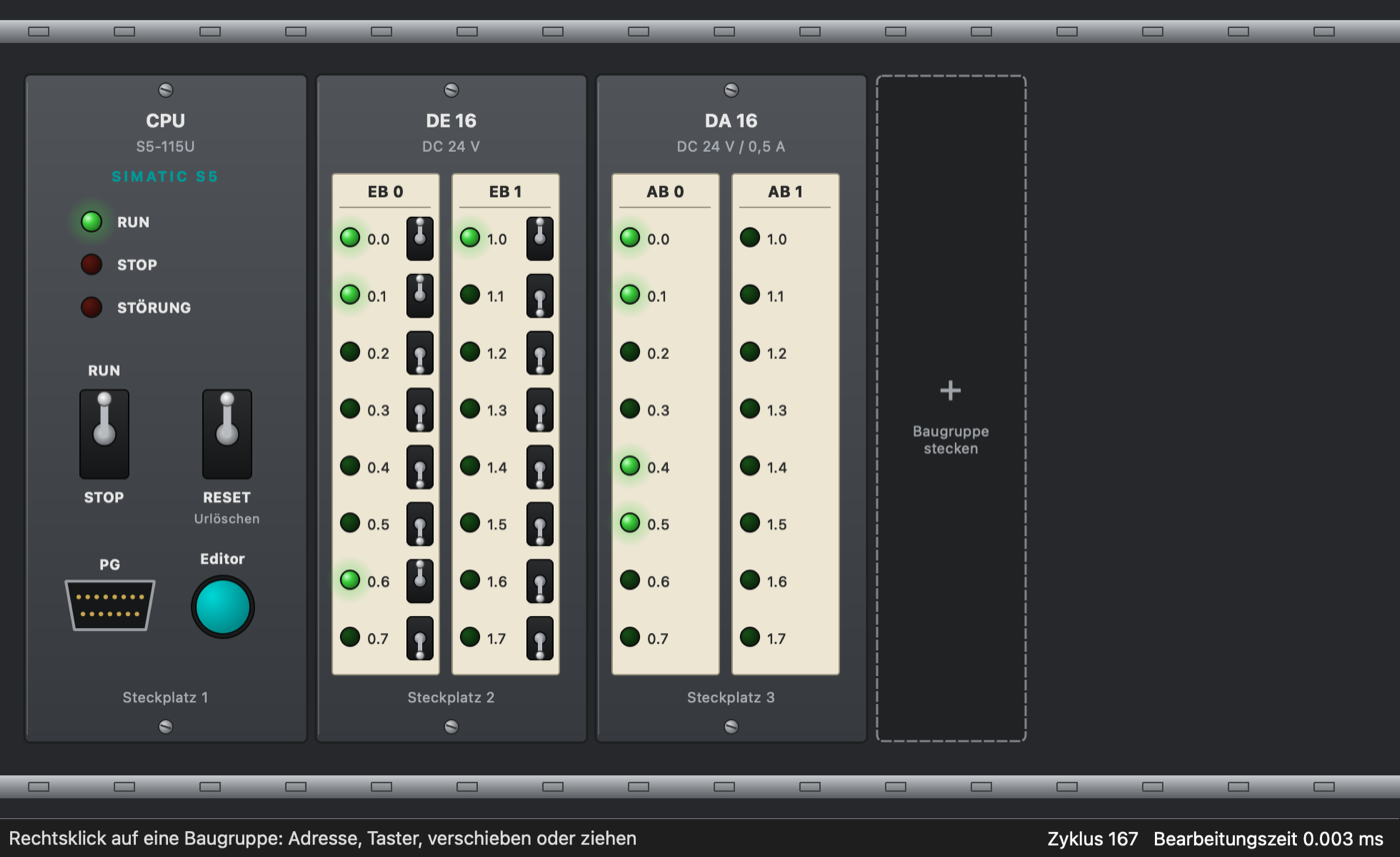
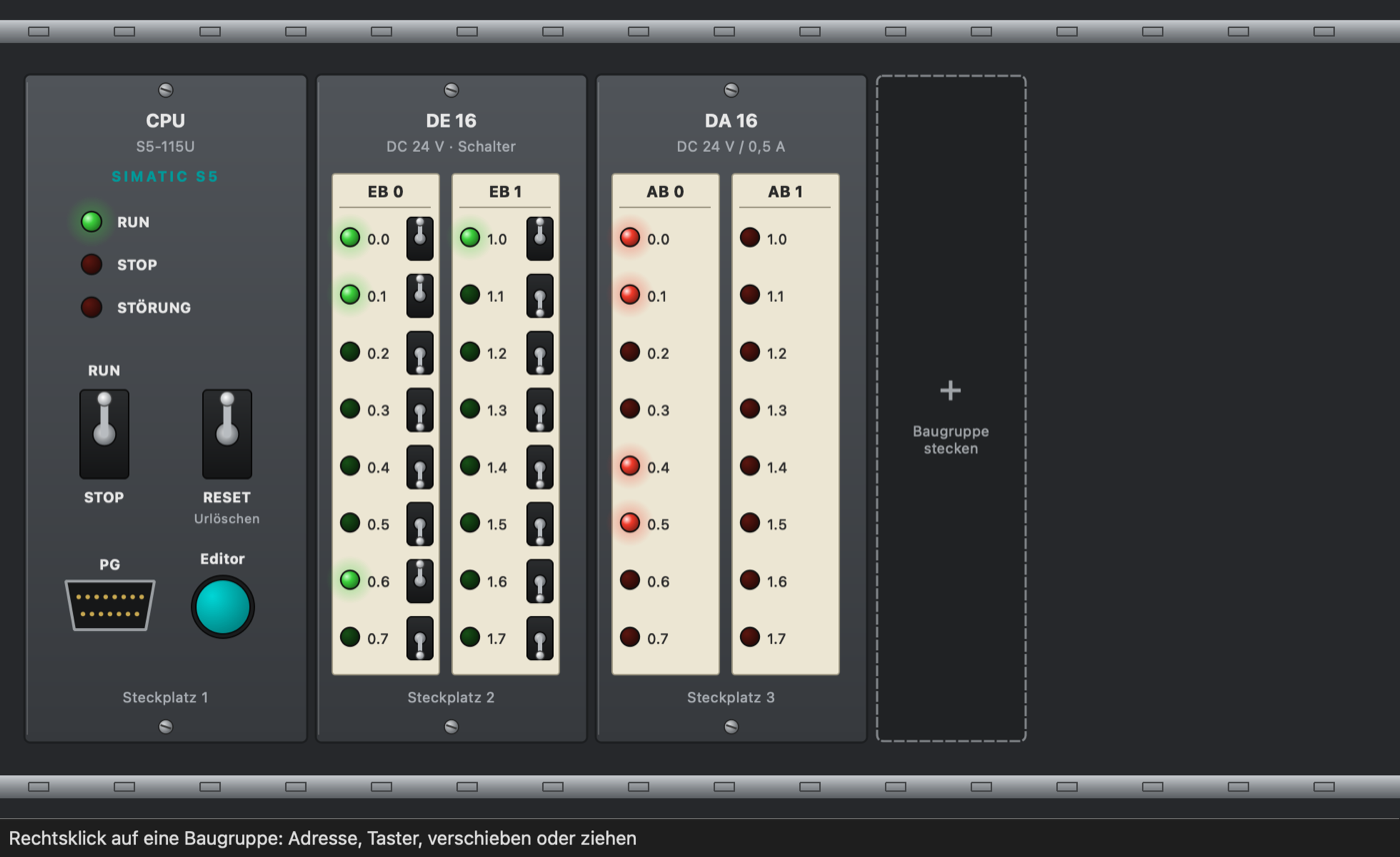
Baugruppen: rote Ausgangs-LEDs, Schalter/Taster je Eingang, Träger ohne Zyklusanzeige
- Digitalausgaben mit roten Status-LEDs, Eingaben weiterhin grün
- Jeder Eingang einzeln als Schalter oder Taster (Kontextmenü am Bit, auch für
  die ganze Karte); Taster mit grauer Kappe, Untertitel und Tooltip zeigen die Art;
  Speicherung je Bit, ältere Einstellungen werden weiter gelesen
- Zyklusnummer und Bearbeitungszeit nur noch im Editor, nicht im Baugruppenträger
- Handbuch, README und Bildschirmfoto angepasst

Claude-Session: https://claude.ai/code/session_0187844a1Z3aJEJPNtd2FpiL

diff --git a/gui/rackwindow.cpp b/gui/rackwindow.cpp
@@ -3,11 +3,11 @@
 #include "mainwindow.h"
 #include "plccontroller.h"
 
+#include <QActionGroup>
 #include <QApplication>
 #include <QCloseEvent>
 #include <QHBoxLayout>
 #include <QInputDialog>
-#include <QLabel>
 #include <QMenu>
 #include <QMenuBar>
 #include <QScrollArea>
@@ -75,8 +75,6 @@ RackWindow::RackWindow(PlcController* plc, MainWindow* editor)
     QMenu* winMenu = menuBar()->addMenu(tr("&Fenster"));
     winMenu->addAction(tr("&Editor (PG)"), QKeySequence(Qt::CTRL | Qt::Key_E), this, &RackWindow::showEditor);
 
-    cycleLabel_ = new QLabel;
-    statusBar()->addPermanentWidget(cycleLabel_);
     statusBar()->showMessage(tr("Rechtsklick auf eine Baugruppe: Adresse, Taster, verschieben oder ziehen"), 8000);
 
     restoreModules();
@@ -141,6 +139,28 @@ void RackWindow::showModuleMenu(DigitalModule* m, const QPoint& globalPos)
     const ModuleConfig cfg = m->config();
     const bool in = cfg.kind == ModuleKind::DigitalIn;
     QMenu menu;
+    if (in) {
+        // Einzelner Eingang unter dem Mauszeiger
+        const int idx = m->bitAt(m->mapFromGlobal(globalPos));
+        if (idx >= 0) {
+            const QString name = QStringLiteral("E %1.%2").arg(cfg.address + idx / 8).arg(idx % 8);
+            const uint32_t bitMask = 1u << idx;
+            auto* group = new QActionGroup(&menu);
+            QAction* sw = menu.addAction(tr("%1 als Schalter").arg(name), this,
+                                         [this, m, bitMask] { setMomentaryMask(m, m->config().momentaryMask & ~bitMask); });
+            QAction* ta = menu.addAction(tr("%1 als Taster").arg(name), this,
+                                         [this, m, bitMask] { setMomentaryMask(m, m->config().momentaryMask | bitMask); });
+            for (QAction* a : {sw, ta}) {
+                a->setCheckable(true);
+                group->addAction(a);
+            }
+            (cfg.isMomentary(idx) ? ta : sw)->setChecked(true);
+            menu.addSeparator();
+        }
+        menu.addAction(tr("Alle Eingänge als Schalter"), this, [this, m] { setMomentaryMask(m, 0); });
+        menu.addAction(tr("Alle Eingänge als Taster"), this, [this, m] { setMomentaryMask(m, m->config().allBits()); });
+        menu.addSeparator();
+    }
     menu.addAction(tr("Anfangsadresse ändern …"), this, [this, m, in] {
         ModuleConfig c = m->config();
         bool ok = false;
@@ -152,26 +172,25 @@ void RackWindow::showModuleMenu(DigitalModule* m, const QPoint& globalPos)
         m->setConfig(c);
         saveModules();
     });
-    if (in) {
-        QAction* t = menu.addAction(tr("Taster statt Schalter"));
-        t->setCheckable(true);
-        t->setChecked(cfg.momentary);
-        connect(t, &QAction::toggled, this, [this, m](bool on) {
-            ModuleConfig c = m->config();
-            if (on)     // eingeschaltete Schalter lösen
-                for (int b = 0; b < c.bytes; ++b)
-                    for (int bit = 0; bit < 8; ++bit) plc_->cpu().setInput(c.address + b, bit, false);
-            c.momentary = on;
-            m->setConfig(c);
-            saveModules();
-        });
-    }
     menu.addSeparator();
     menu.addAction(tr("Nach links"), this, [this, m] { moveModule(m, -1); });
     menu.addAction(tr("Nach rechts"), this, [this, m] { moveModule(m, +1); });
     menu.addSeparator();
     menu.addAction(tr("Baugruppe ziehen"), this, [this, m] { removeModule(m); });
     menu.exec(globalPos);
+}
+
+void RackWindow::setMomentaryMask(DigitalModule* m, uint32_t mask)
+{
+    ModuleConfig c = m->config();
+    mask &= c.allBits();
+    // Eingänge, die zum Taster werden, liefern 0, bis der Taster gedrückt wird
+    const uint32_t becomeMomentary = mask & ~c.momentaryMask;
+    for (int i = 0; i < c.bitCount(); ++i)
+        if ((becomeMomentary >> i) & 1u) plc_->cpu().setInput(c.address + i / 8, i % 8, false);
+    c.momentaryMask = mask;
+    m->setConfig(c);
+    saveModules();
 }
 
 void RackWindow::removeModule(DigitalModule* m)
@@ -217,11 +236,11 @@ void RackWindow::saveModules() const
     QStringList list;
     for (const DigitalModule* m : modules_) {
         const ModuleConfig& c = m->config();
-        list << QStringLiteral("%1,%2,%3,%4")
+        list << QStringLiteral("%1,%2,%3,m:%4")
                     .arg(c.kind == ModuleKind::DigitalIn ? QStringLiteral("DE") : QStringLiteral("DA"))
                     .arg(c.bytes)
                     .arg(c.address)
-                    .arg(c.momentary ? 1 : 0);
+                    .arg(c.momentaryMask & c.allBits(), 8, 16, QLatin1Char('0'));
     }
     QSettings().setValue(QStringLiteral("rack/modules"), list);
 }
@@ -239,7 +258,12 @@ void RackWindow::restoreModules()
         c.bytes = std::clamp(f[1].toInt(), 1, 4);
         if (c.bytes == 3) c.bytes = 4;
         c.address = std::clamp(f[2].toInt(), 0, s5::Cpu::kIoBytes - c.bytes);
-        c.momentary = f[3] == QLatin1String("1");
+        // 4. Feld: "m:<Hex>" = Taster je Eingang; ältere Einstellungen: "1" = alle Taster
+        if (f[3].startsWith(QLatin1String("m:")))
+            c.momentaryMask = f[3].mid(2).toUInt(nullptr, 16) & c.allBits();
+        else
+            c.momentaryMask = f[3] == QLatin1String("1") ? c.allBits() : 0;
+        if (c.kind == ModuleKind::DigitalOut) c.momentaryMask = 0;
         addModule(c);
     }
     relayout();
@@ -249,11 +273,6 @@ void RackWindow::refresh()
 {
     cpuModule_->update();
     for (DigitalModule* m : modules_) m->update();
-    const s5::Cpu& cpu = plc_->cpu();
-    if (cpu.state() == s5::CpuState::Run)
-        cycleLabel_->setText(tr("Zyklus %1   Bearbeitungszeit %2 ms").arg(cpu.cycleCount()).arg(plc_->cycleTimeMs(), 0, 'f', 3));
-    else
-        cycleLabel_->setText(cpu.state() == s5::CpuState::Halt ? tr("Einzelschritt") : QString());
 }
 
 void RackWindow::closeEvent(QCloseEvent* e)

diff --git a/gui/rackmodules.cpp b/gui/rackmodules.cpp
@@ -4,11 +4,13 @@
 
 #include <QContextMenuEvent>
 #include <QDateTime>
+#include <QHelpEvent>
 #include <QLinearGradient>
 #include <QMouseEvent>
 #include <QPainter>
 #include <QPainterPath>
 #include <QRadialGradient>
+#include <QToolTip>
 
 namespace rack {
 
@@ -343,7 +345,7 @@ QRect DigitalModule::rowRect(int byteIndex, int bit) const
     return QRect(12 + byteIndex * kColumnWidth, kRowsTop + bit * kRowHeight, kColumnWidth - 8, kRowHeight);
 }
 
-int DigitalModule::hitTest(const QPoint& pos) const
+int DigitalModule::bitAt(const QPoint& pos) const
 {
     for (int b = 0; b < cfg_.bytes; ++b)
         for (int bit = 0; bit < 8; ++bit)
@@ -356,10 +358,17 @@ void DigitalModule::paintEvent(QPaintEvent*)
     QPainter p(this);
     const bool in = cfg_.kind == ModuleKind::DigitalIn;
     const QString title = QStringLiteral("%1 %2").arg(in ? QStringLiteral("DE") : QStringLiteral("DA")).arg(cfg_.bytes * 8);
-    const QString subtitle = in ? (cfg_.momentary ? tr("DC 24 V · Taster") : tr("DC 24 V")) : tr("DC 24 V / 0,5 A");
+    QString subtitle = tr("DC 24 V / 0,5 A");
+    if (in) {
+        const uint32_t mask = cfg_.momentaryMask & cfg_.allBits();
+        subtitle = mask == 0 ? tr("DC 24 V · Schalter")
+                 : mask == cfg_.allBits() ? tr("DC 24 V · Taster")
+                                          : tr("DC 24 V · Schalter/Taster");
+    }
     paintFrame(p, title, subtitle);
 
     const s5::Cpu& cpu = plc_->cpu();
+    const QColor ledColor = in ? QColor(0x3c, 0xd0, 0x3c) : QColor(0xf0, 0x3a, 0x2a);  // Eingänge grün, Ausgänge rot
     QFont f = font();
     for (int b = 0; b < cfg_.bytes; ++b) {
         const int byte = cfg_.address + b;
@@ -388,15 +397,15 @@ void DigitalModule::paintEvent(QPaintEvent*)
         for (int bit = 0; bit < 8; ++bit) {
             const QRect r = rowRect(b, bit);
             const bool on = (value >> bit) & 1;
-            drawLed(p, QPointF(r.left() + 13, r.center().y()), 6.5, on, QColor(0x3c, 0xd0, 0x3c));
+            drawLed(p, QPointF(r.left() + 13, r.center().y()), 6.5, on, ledColor);
             p.setPen(kPaperText);
             p.drawText(QRect(r.left() + 25, r.top(), 32, r.height()), Qt::AlignVCenter | Qt::AlignLeft,
                        QStringLiteral("%1.%2").arg(byte).arg(bit));
             if (in) {
                 const QRectF sw(r.right() - 22, r.top() + 5, 18, r.height() - 10);
-                if (cfg_.momentary)
+                if (cfg_.isMomentary(b * 8 + bit))
                     drawPushButton(p, QRectF(r.right() - 24, r.center().y() - 11, 22, 22), pressed_ == b * 8 + bit,
-                                   QColor(0x2e, 0x7d, 0x32));
+                                   QColor(0x9a, 0x9e, 0xa2));     // neutrale Kappe, nicht mit LED verwechselbar
                 else
                     drawToggle(p, sw, on);
             }
@@ -404,14 +413,34 @@ void DigitalModule::paintEvent(QPaintEvent*)
     }
 }
 
+bool DigitalModule::event(QEvent* e)
+{
+    if (e->type() == QEvent::ToolTip) {
+        auto* he = static_cast<QHelpEvent*>(e);
+        const int hit = bitAt(he->pos());
+        if (hit < 0) {
+            QToolTip::hideText();
+            e->ignore();
+            return true;
+        }
+        const bool in = cfg_.kind == ModuleKind::DigitalIn;
+        QString text = QStringLiteral("%1 %2.%3").arg(in ? QStringLiteral("E") : QStringLiteral("A"))
+                           .arg(cfg_.address + hit / 8).arg(hit % 8);
+        if (in) text += cfg_.isMomentary(hit) ? tr(" – Taster") : tr(" – Schalter");
+        QToolTip::showText(he->globalPos(), text, this);
+        return true;
+    }
+    return ModuleWidget::event(e);
+}
+
 void DigitalModule::mousePressEvent(QMouseEvent* e)
 {
     if (e->button() != Qt::LeftButton || cfg_.kind != ModuleKind::DigitalIn) return;
-    const int hit = hitTest(e->position().toPoint());
+    const int hit = bitAt(e->position().toPoint());
     if (hit < 0) return;
     const int byte = cfg_.address + hit / 8, bit = hit % 8;
     s5::Cpu& cpu = plc_->cpu();
-    if (cfg_.momentary) {
+    if (cfg_.isMomentary(hit)) {
         pressed_ = hit;
         cpu.setInput(byte, bit, true);
     } else {

diff --git a/gui/rackmodules.h b/gui/rackmodules.h
@@ -3,6 +3,8 @@
 
 #include <QWidget>
 
+#include <cstdint>
+
 class PlcController;
 
 namespace rack {
@@ -11,9 +13,13 @@ enum class ModuleKind { DigitalIn, DigitalOut };
 
 struct ModuleConfig {
     ModuleKind kind = ModuleKind::DigitalIn;
-    int bytes = 2;          // 1, 2 oder 4 Byte (8/16/32 Bit)
-    int address = 0;        // Anfangsadresse (EB/AB)
-    bool momentary = false; // Eingänge als Taster statt Schalter
+    int bytes = 2;              // 1, 2 oder 4 Byte (8/16/32 Bit)
+    int address = 0;            // Anfangsadresse (EB/AB)
+    uint32_t momentaryMask = 0; // je Eingang (Byte*8 + Bit): gesetzt = Taster, sonst Schalter
+
+    int bitCount() const { return bytes * 8; }
+    uint32_t allBits() const { return bytes >= 4 ? 0xFFFFFFFFu : (1u << (bytes * 8)) - 1u; }
+    bool isMomentary(int index) const { return (momentaryMask >> index) & 1u; }
 };
 
 // Gemeinsame Optik: Frontplatte, Beschriftung, Steckplatznummer
@@ -69,15 +75,16 @@ public:
     const ModuleConfig& config() const { return cfg_; }
     void setConfig(const ModuleConfig& cfg);
     static int widthFor(int bytes);
+    int bitAt(const QPoint& pos) const;     // Byte*8 + Bit unter pos oder -1
 
 protected:
+    bool event(QEvent* e) override;
     void paintEvent(QPaintEvent*) override;
     void mousePressEvent(QMouseEvent* e) override;
     void mouseReleaseEvent(QMouseEvent* e) override;
 
 private:
     QRect rowRect(int byteIndex, int bit) const;
-    int hitTest(const QPoint& pos) const;   // byteIndex*8+bit oder -1
 
     PlcController* plc_;
     ModuleConfig cfg_;

diff --git a/gui/rackwindow.h b/gui/rackwindow.h
@@ -10,7 +10,6 @@
 class MainWindow;
 class PlcController;
 class QHBoxLayout;
-class QLabel;
 
 class RackWindow : public QMainWindow {
     Q_OBJECT
@@ -28,6 +27,7 @@ private:
     void showAddMenu(const QPoint& globalPos);
     void showModuleMenu(rack::DigitalModule* m, const QPoint& globalPos);
     void removeModule(rack::DigitalModule* m);
+    void setMomentaryMask(rack::DigitalModule* m, uint32_t mask);
     void moveModule(rack::DigitalModule* m, int delta);
     void relayout();
     void saveModules() const;
@@ -42,5 +42,4 @@ private:
     rack::CpuModule* cpuModule_;
     rack::EmptySlot* emptySlot_;
     std::vector<rack::DigitalModule*> modules_;
-    QLabel* cycleLabel_;
 };

diff --git a/docs/handbuch.md b/docs/handbuch.md
@@ -43,7 +43,7 @@ EB 1) und einer Digitalausgabe DA 16 (AB 0 und AB 1). Im Editor ist das Beispiel
 2. **CPU starten:** Im Baugruppenträger den Kippschalter der CPU auf **RUN** legen. Das Programm wird
    automatisch übersetzt, die grüne LED **RUN** leuchtet.
 3. **Eingänge schalten:** Auf der Digitaleingabe die Kippschalter bei **0.0** und **0.1** umlegen.
-   Die grünen LEDs der Eingänge leuchten, auf der Digitalausgabe leuchten **0.0** (UND) und **0.1** (ODER).
+   Die grünen LEDs der Eingänge leuchten, auf der Digitalausgabe leuchten die roten LEDs **0.0** (UND) und **0.1** (ODER).
 4. **Zuschauen:** Im Editor zeigt die Statusspalte neben jeder Anweisung das Verknüpfungsergebnis (VKE)
    und den Signalzustand des Operanden.
 5. **Ändern:** Programm im Editor ändern, mit ⌘B übersetzen – die CPU arbeitet ab dem nächsten Zyklus
@@ -80,11 +80,16 @@ CPU im STOP und die Statuszeile weist darauf hin; die Fehler stehen im Editor un
 
 Es gibt Digitaleingaben (**DE**) und Digitalausgaben (**DA**) mit 8, 16 oder 32 Bit, also 1, 2 oder
 4 Byte. Jedes Byte ist eine senkrechte Spalte mit der Byteadresse oben (z.B. **EB 0**) und den Bits
-.0 bis .7 darunter. Jedes Bit hat eine grüne Status-LED.
+.0 bis .7 darunter. Jedes Bit hat eine Status-LED – grün bei Eingaben, rot bei Ausgaben.
 
-- **Digitaleingabe:** Jedes Bit hat einen Kippschalter. Ein Klick legt ihn um (Hebel oben = 1).
-  Im Taster-Modus wird jedes Bit zu einem runden Taster, der nur 1 liefert, solange die Maustaste
-  gedrückt ist – gut für Flanken, Zähleingänge und Anforderungstaster.
+- **Digitaleingabe:** Jeder Eingang ist entweder ein **Schalter** oder ein **Taster** – einzeln
+  einstellbar, auch gemischt auf einer Karte:
+  - **Schalter** (Kippschalter): Ein Klick legt ihn um, Hebel oben = 1. Er bleibt in seiner Stellung.
+  - **Taster** (runder Drucktaster mit grauer Kappe): liefert nur 1, solange die Maustaste gedrückt ist –
+    gut für Flanken, Zähleingänge und Anforderungstaster.
+
+  Der Untertitel der Karte zeigt „Schalter“, „Taster“ oder „Schalter/Taster“; wird die Maus über einem
+  Eingang gehalten, erscheint z.B. „E 0.3 – Taster“. Neue Karten haben nur Schalter.
 - **Digitalausgabe:** Die LEDs zeigen die Ausgänge, wie sie die CPU am Zyklusende ausgibt.
   Im STOP sind alle Ausgänge aus.
 
@@ -96,9 +101,12 @@ Die neue Baugruppe erhält die nächste freie Adresse hinter den vorhandenen Bau
 | Eintrag | Wirkung |
 |---|---|
 | Anfangsadresse ändern … | erstes Byte der Baugruppe (EB bzw. AB 0 … 127) |
-| Taster statt Schalter | nur Digitaleingabe; eingeschaltete Schalter werden dabei gelöst |
+| E n.m als Schalter / E n.m als Taster | nur Digitaleingabe: stellt den Eingang unter dem Mauszeiger um |
+| Alle Eingänge als Schalter / als Taster | nur Digitaleingabe: stellt die ganze Karte um |
 | Nach links / Nach rechts | Steckplatz tauschen |
 | Baugruppe ziehen | Baugruppe entfernen; die Eingänge einer gezogenen Eingabe gehen auf 0 |
+
+Wird ein eingeschalteter Schalter zum Taster, geht der Eingang auf 0.
 
 Zwei Baugruppen dürfen dieselbe Adresse haben – sie zeigen dann dieselben Bits.
 
@@ -106,8 +114,8 @@ Bestückung und Fensterposition werden beim Beenden gespeichert.
 
 ### 3.3 Statuszeile
 
-Unten rechts stehen im Betrieb die Zyklusnummer und die Bearbeitungszeit des letzten Zyklus, links
-Hinweise und Fehlermeldungen (z.B. „STOP – Zeile 12: …“).
+Die Statuszeile zeigt Hinweise und Fehlermeldungen (z.B. „STOP – Zeile 12: …“). Zyklusnummer und
+Bearbeitungszeit stehen in der Statuszeile des Editors.
 
 ---
 

diff --git a/README.md b/README.md
@@ -29,7 +29,7 @@ open build/S5Sim.app
 - **Baugruppenträger** (Hauptfenster) im Stil der S5-115U: CPU mit Betriebsartenschalter RUN/STOP,
   Urlöschen-Taster (nur im STOP), LEDs RUN/STOP/STÖRUNG und PG-Taster, der den Editor öffnet
 - **Digitalein- und -ausgaben** DE/DA mit 8, 16 oder 32 Bit stecken, ziehen und verschieben; Bits senkrecht mit
-  grünen Status-LEDs, Eingaben mit Kippschaltern oder Tastern; Anfangsadresse je Baugruppe einstellbar
+  Status-LEDs (Eingänge grün, Ausgänge rot), je Eingang Kippschalter oder Taster (auch gemischt); Anfangsadresse je Baugruppe einstellbar
 - **Editor (PG)** als eigenes Fenster: AWL mit Status Baustein, Einzelschritt, Variablen, Meldungen, Maschinencode
 
 ## Was die CPU kann
